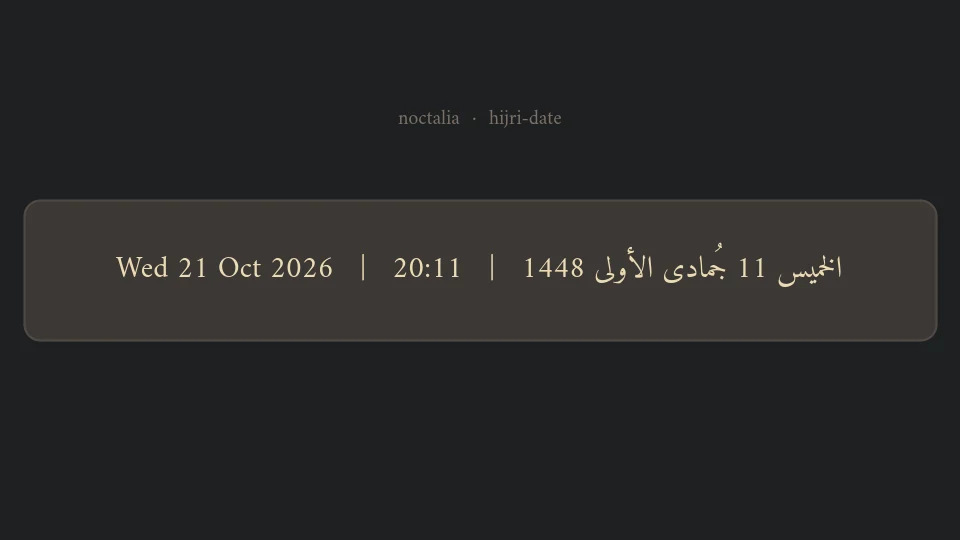
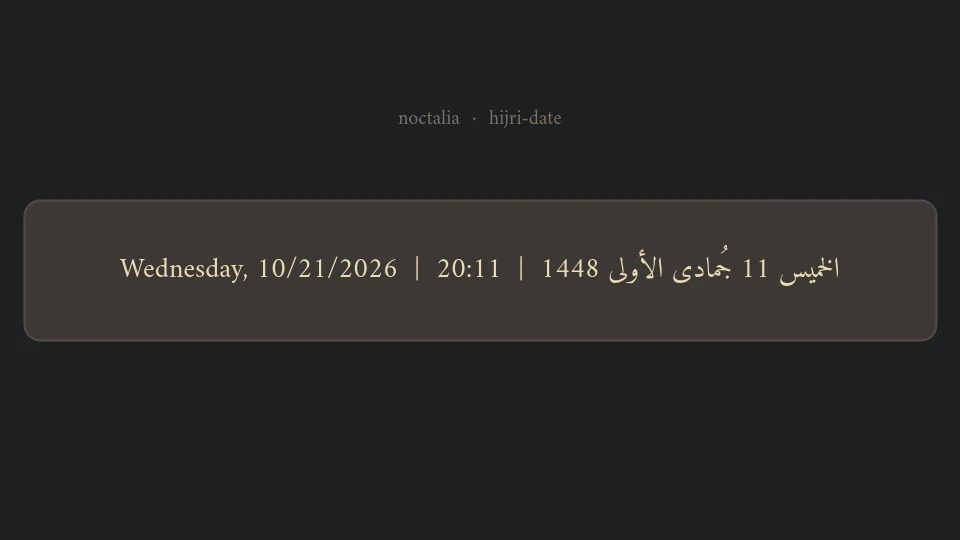
noctalia/hijri-date: keep the combined pill, format it with noctalia's own
The widget stays a single pill (Gregorian date | clock | Hijri date), but
the date and the clock are rendered with Noctalia's own formats -
noctalia.dateFormat() and noctalia.timeFormat() - so they are exactly
what the shell's clock widget and calendar show and follow the shell's
[shell].date_format and [shell].time_format settings.

The Hijri half keeps the service split: the service owns the requests
and resolves the Maghrib rollover in the location's own zone, and
publishes the date that is currently valid. The widget only renders it.

No widget settings: the formats come from the shell.

Changed region(s): [[0.125, 0.4444, 0.8125, 0.5333], [0.8125, 0.4741, 0.875, 0.5333]]

diff --git a/noctalia/plugins/hijri-date/README.md b/noctalia/plugins/hijri-date/README.md
@@ -1,7 +1,7 @@
 # Hijri Date
 
 A Noctalia bar widget that shows the Gregorian date, the clock and the Hijri
-date for a fixed location.
+date for a fixed location, in one pill.
 
 ![thumbnail](thumbnail.webp)
 
@@ -20,29 +20,33 @@ Add the `date-clock-hijri` widget from the Add-widget picker and place it on a
 bar. It shows:
 
 ```
-Wed 21 Oct 2026 | 20:07 | الخميس 11 جُمادى الأولى 1448
+Wednesday, 10/21/2026 | 20:11 | الخميس 11 جُمادى الأولى 1448
 ```
+
+The clock and the Gregorian date come from Noctalia's own formats
+(`noctalia.timeFormat()` and `noctalia.dateFormat()`), so they are exactly what
+the shell's clock widget and calendar show, and they follow the shell's
+`[shell].time_format` and `[shell].date_format` settings.
 
 The Hijri day runs from **Maghrib to Maghrib**, so the date flips to the next
 Hijri day once Maghrib has passed. Maghrib comes from the same API response
-and is compared in minutes since midnight, in the location's own time zone —
-not by comparing formatted strings.
+and is compared against the current time *in the location's own time zone* —
+not by comparing formatted strings, and not in the system zone.
 
 Clicking the widget opens the shell's calendar panel.
 
-The `fetcher` service does the requests and publishes the result through the
-plugin's shared state; the widget only renders. The service is a headless
-entry, so the fetch keeps running even when the widget is not on a bar.
+The `fetcher` service does the requests and publishes the date that is
+currently valid; the widget only renders it. The service is a headless entry,
+so the fetch keeps running even when the widget is not on a bar.
 
 A successful response is reused for an hour, since the Hijri date only changes
-at Maghrib. A failed request backs off for five minutes instead of retrying
-on every tick, and the previous day's values are dropped when the Gregorian
-date rolls over, so a failed request can never leave a stale Hijri date on
-the bar.
+at Maghrib. A failed request backs off for five minutes instead of retrying on
+every tick, and the previous day's values are dropped when the Gregorian date
+rolls over, so a failed request can never leave a stale Hijri date on the bar.
 
-The Hijri date, month name and weekday are shown exactly as the API spells
-them (`الاربعاء`, `جُمادى الأولى`). The Hijri month length is taken from the
-API, so the widget stays correct around month rollovers.
+The date, month name and weekday are shown exactly as the API spells them
+(`الاربعاء`, `جُمادى الأولى`). The Hijri month length is taken from the API,
+so the widget stays correct around month rollovers.
 
 ## Settings
 
@@ -55,17 +59,8 @@ because the service is the one that fetches:
 | `longitude` | `string` | `13.1913` | Longitude of the location used for prayer times and the Hijri date. |
 | `method` | `string` | `3` | Hijri calculation method (3 = Muslim World League, 4 = Umm al-Qura). |
 
-The presentation settings live on the widget itself:
-
-| Setting | Type | Default | Description |
-| --- | --- | --- | --- |
-| `clock_format` | `select` | `system` | `system` follows the shell's clock format, `12h`/`24h` force one. |
-| `date_format` | `select` | `compact` | `compact` is `Wed 21 Oct 2026`, `system` follows the shell's date format. |
-| `timezone` | `string` | *(empty)* | IANA zone for the clock, e.g. `Africa/Tripoli`. Empty uses the system zone. |
-
-The clock and the date are rendered with `noctalia.formatTime()`, so they
-follow the shell's formats and can be changed in one place (Settings → Shell)
-instead of per widget.
+The clock and the date are formatted by the shell, so change them in
+Settings → Shell (or in `[shell].time_format` / `[shell].date_format`).
 
 ## Debugging
 
@@ -73,5 +68,5 @@ instead of per widget.
 noctalia msg plugin hazembook/hijri-date:date-clock-hijri all status
 ```
 
-shows the currently displayed Hijri date, the Maghrib minutes, the location's
-time zone and the cache timestamps in a notification.
+shows the currently displayed date, the Maghrib minutes, the location's time
+zone and the cache timestamps in a notification.
